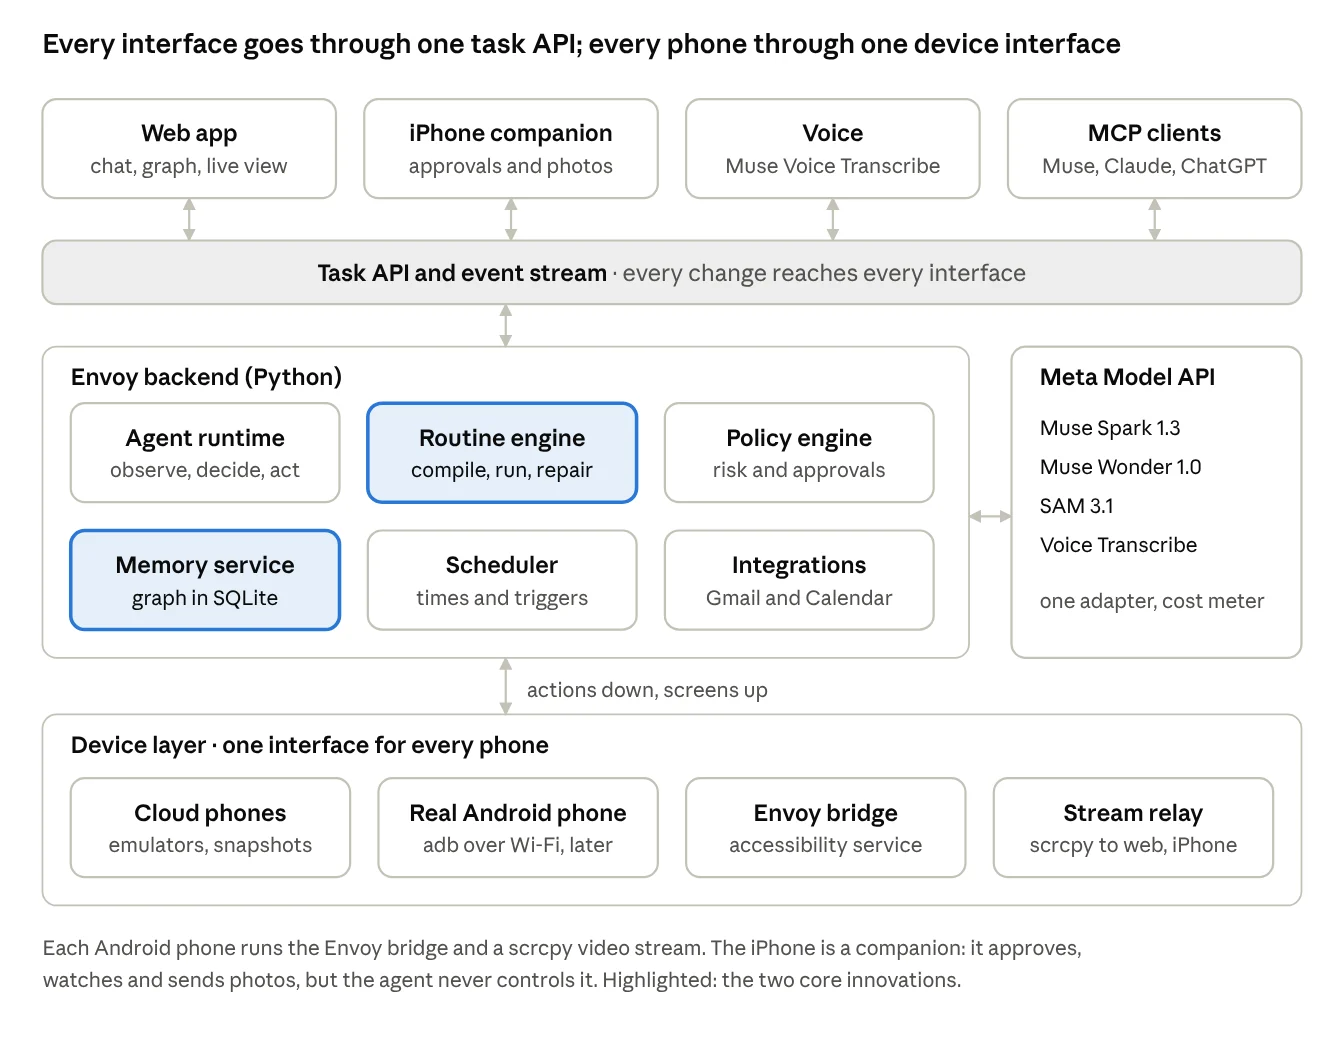
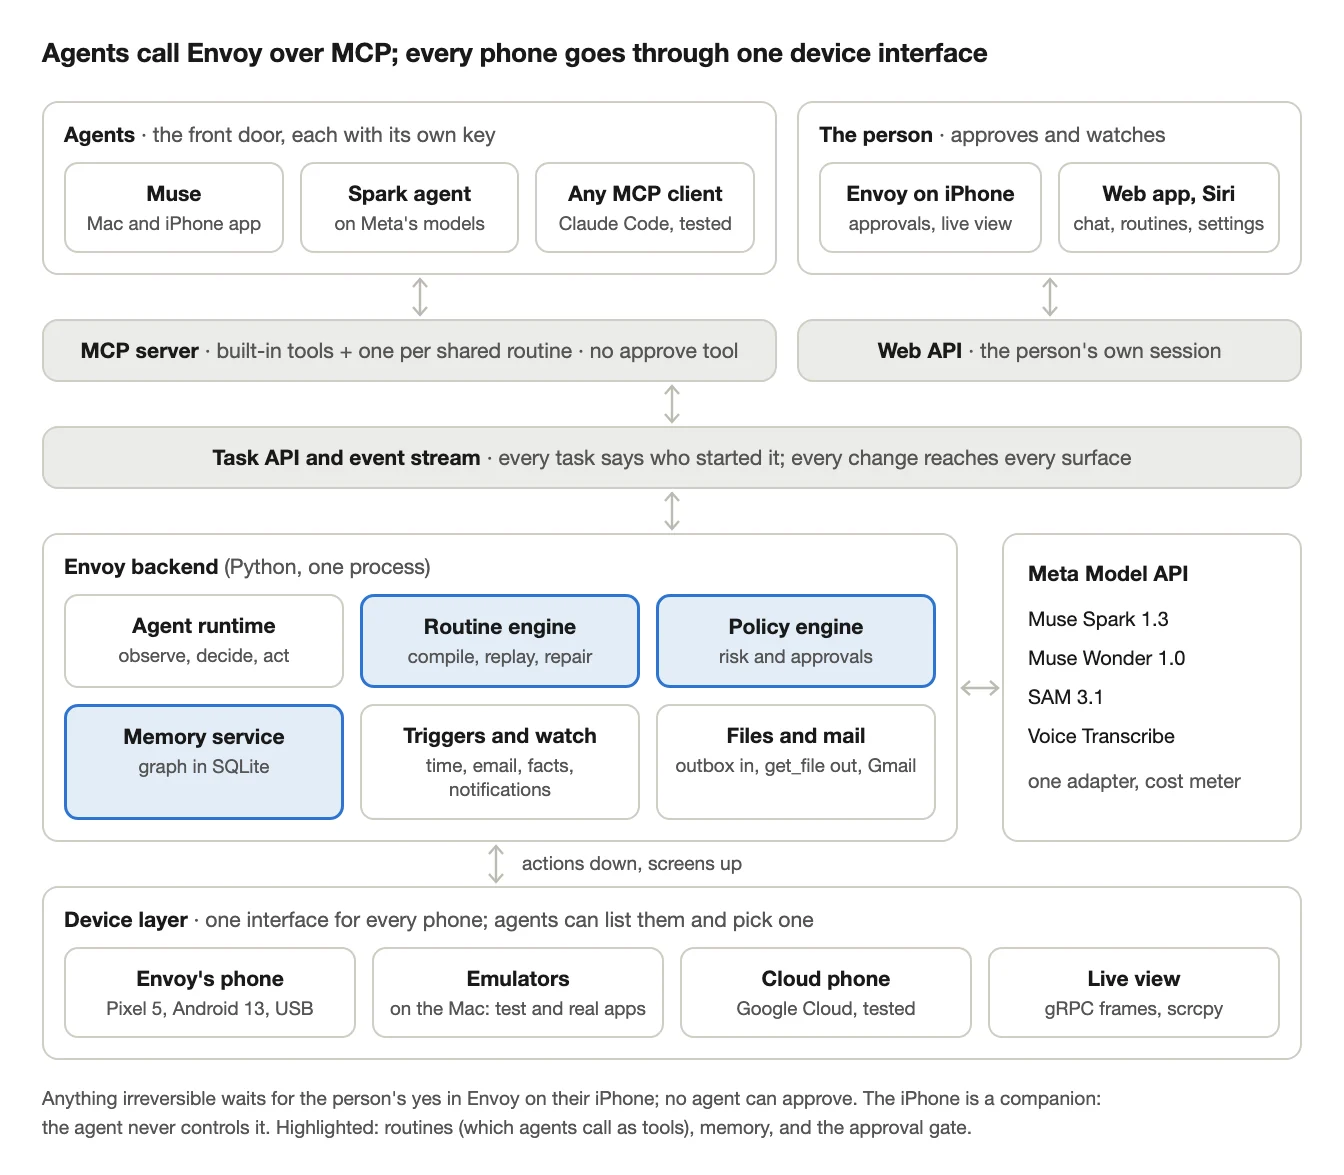
Site data rebuilt on the combined docs refresh: THIRD_PARTY.md's two new parts and the updated architecture diagram

diff --git a/site/data/site-data.js b/site/data/site-data.js
@@ -4594,11 +4594,19 @@ window.ENVOY = {
    },
    {
     "title": "The iPhone companion and voice",
-    "text": "pairing a device with a short code typed inside the Home Screen app, scoped device tokens that can only upload images, the host and origin checks, which events push and what a push may carry (never a nonce), push receipts that measure delivery, the push-to-talk relay to Muse Voice Transcribe with silence padding to real time, the AudioWorklet resampler, touch and iPhone-keyboard input for the live view with clock-offset latency, and photos to facts: on-device OCR with a tiled second pass, redaction of the image before it leaves the Mac, Spark vision extraction checked against the image's text (tolerating only OCR glyph confusions in codes), photo sources, merging into known trips by natural keys, and deleting the image. The \"Send to Envoy\" shortcut is generated by scripts/make_shortcut.py; the icons are drawn by scripts/make_icons.py. pywebpush, Tailscale, Apple's Vision framework and Shortcuts are plumbing."
+    "text": "pairing a device with a short code typed inside the Home Screen app, scoped device tokens that can only upload images, the host and origin checks, which events push and what a push may carry (never a nonce), push receipts that measure delivery, the push-to-talk relay to Muse Voice Transcribe with silence padding to real time, the AudioWorklet resampler, touch and iPhone-keyboard input for the live view with clock-offset latency, and photos to facts: on-device OCR with a tiled second pass, redaction of the image before it leaves the Mac, Spark vision extraction checked against the image's text (tolerating only OCR glyph confusions in codes), photo sources, merging into known trips by natural keys, and deleting the image. The \"Send to Envoy\" shortcut is generated by scripts/make_shortcut.py; the icons are drawn by scripts/make_icons.mjs. pywebpush, Tailscale, Apple's Vision framework and Shortcuts are plumbing."
    },
    {
     "title": "Muse integration",
     "text": "Envoy as the phone layer behind the real Muse app, through a custom MCP connector (a public tunnel reaches /mcp and nothing else)."
+   },
+   {
+    "title": "The phone layer agents call",
+    "text": "learned routines published as MCP tools of their own (a name, a JSON schema built from the routine's inputs, a description of what was learned), read fresh on every tools/list and shared one by one; a key per agent with tool groups, a rate limit and \"from <agent>\" on every task it starts; notifications on Envoy's phone as a trigger source (parsing dumpsys notification, firing once per notification, codes redacted before anything is stored); files to the phone from the Mac's outbox and back to the agent as signed, short-lived links; a phone parameter for agents; and the Spark agent, an agent on Meta's Muse Spark with its own small MCP client (no MCP library) and a page for filming. The MCP SDK, Starlette and HTTPX are plumbing."
+   },
+   {
+    "title": "Teach mode",
+    "text": "a person's demonstration through the live view recorded as a trace in the agent's format (never on sign-in or secure screens, never a password field), compiled by the same compiler, and replayed once strictly before it's saved."
    },
    {
     "title": "The real phone and screens with no tree",
